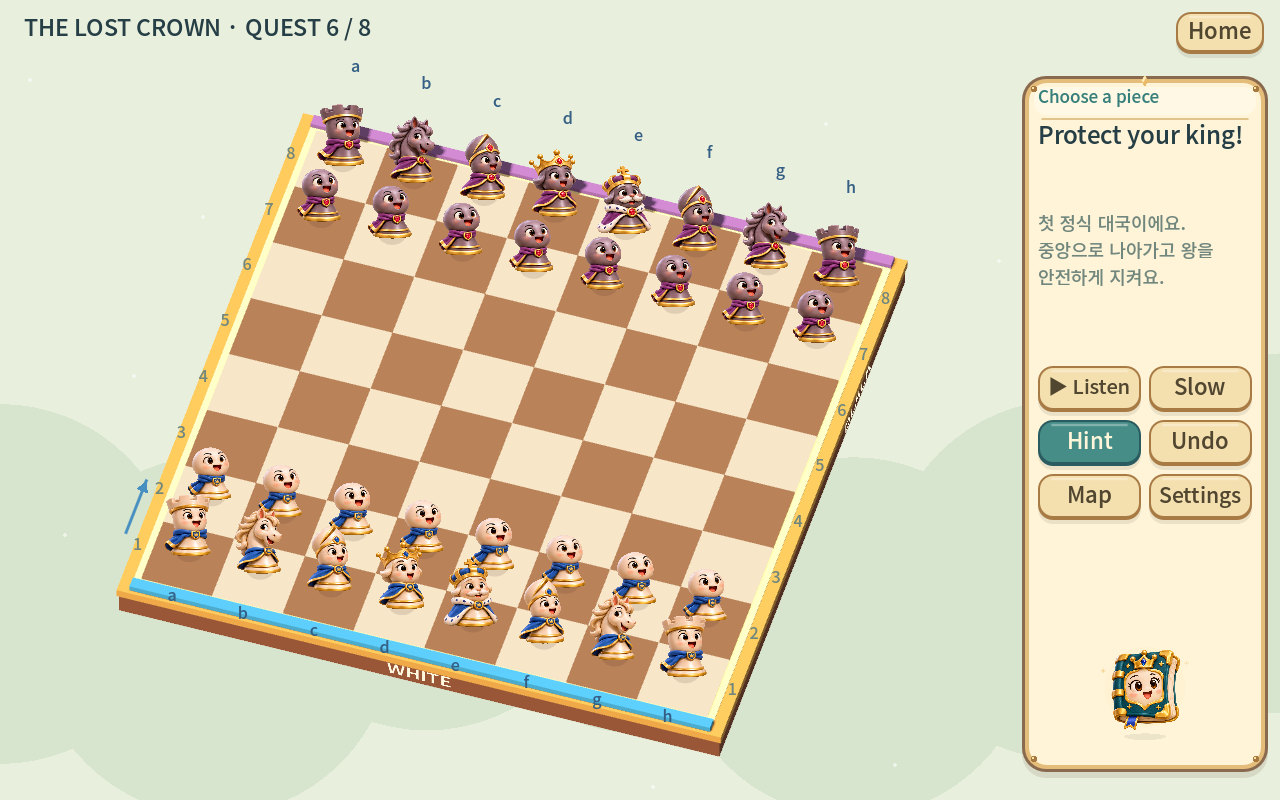
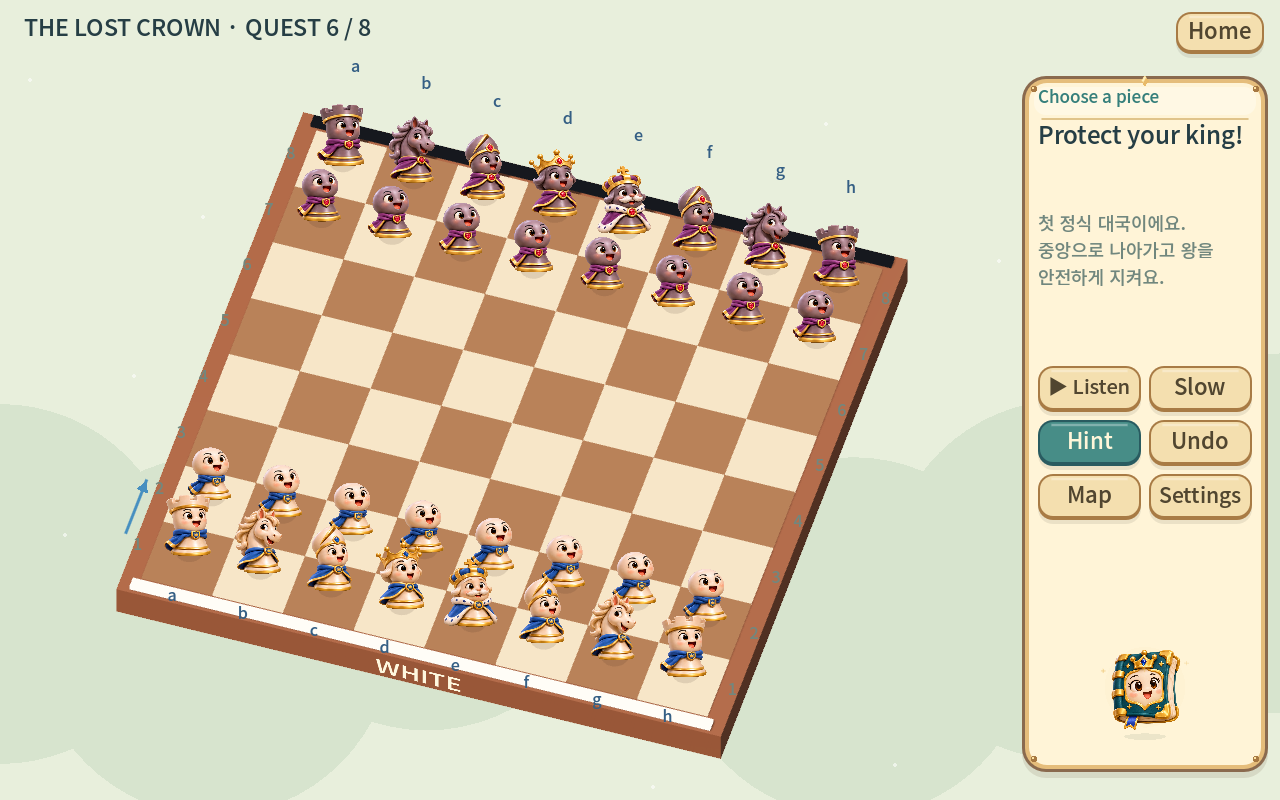
Unify board body and identify teams with white and black rails

diff --git a/tools/build_web.py b/tools/build_web.py
@@ -12,7 +12,7 @@ engine=engine[:engine.rfind('export {')]
 html=(d/'index.html').read_text().replace('"serviceWorker":"index.service.worker.js"','"serviceWorker":""')
 html=html.replace('<head>','<head>\n<script src="chess.js"></script>\n<link rel="apple-touch-icon" href="icon-192.png"><meta name="apple-mobile-web-app-capable" content="yes"><meta name="theme-color" content="#367f7b">')
 html=html.replace('</body>','''<script>if('serviceWorker' in navigator)navigator.serviceWorker.register('./sw.js',{updateViaCache:'none'}).then(r=>r.update());</script>
-<a href="guide.html" style="position:fixed;bottom:5px;right:10px;color:#367f7b;font:12px sans-serif">Side lettering · v11.17.12 · Help</a></body>''')
+<a href="guide.html" style="position:fixed;bottom:5px;right:10px;color:#367f7b;font:12px sans-serif">One-piece board · v11.17.13 · Help</a></body>''')
 (d/'index.html').write_text(html)
 manifest={'name':'Chess Quest: The Lost Crown','short_name':'Chess Quest','start_url':'./index.html','scope':'./','id':'./','display':'standalone','orientation':'any','background_color':'#e8efdc','theme_color':'#367f7b','icons':[{'src':f'icon-{s}.png','sizes':f'{s}x{s}','type':'image/png','purpose':'any maskable'} for s in [192,512]]}
 (d/'index.manifest.json').write_text(json.dumps(manifest))

diff --git a/README.md b/README.md
@@ -155,3 +155,7 @@ Removed both signs and their mounts. WHITE and BLACK are now depth-tested 3D let
 ## Original board proportions and side lettering (v11.17.12)
 
 Restored the original plinth and thin colored rails. Team text is no longer on the playing surface: WHITE is printed on the front wooden thickness face, and BLACK on the visible right wooden face toward the opposing half. Both are real depth-tested 3D text on vertical surfaces, without mounts, plaques or a widened frame.
+
+## Unified board body and monochrome team rails (v11.17.13)
+
+Replaced the stacked base and gold separator layers with one continuous wooden body, retaining the board footprint and overall thickness. The uninterrupted front face allows larger WHITE lettering. Removed BLACK lettering entirely. The player rail is white and the opponent rail is black in every theme, replacing blue and purple.
